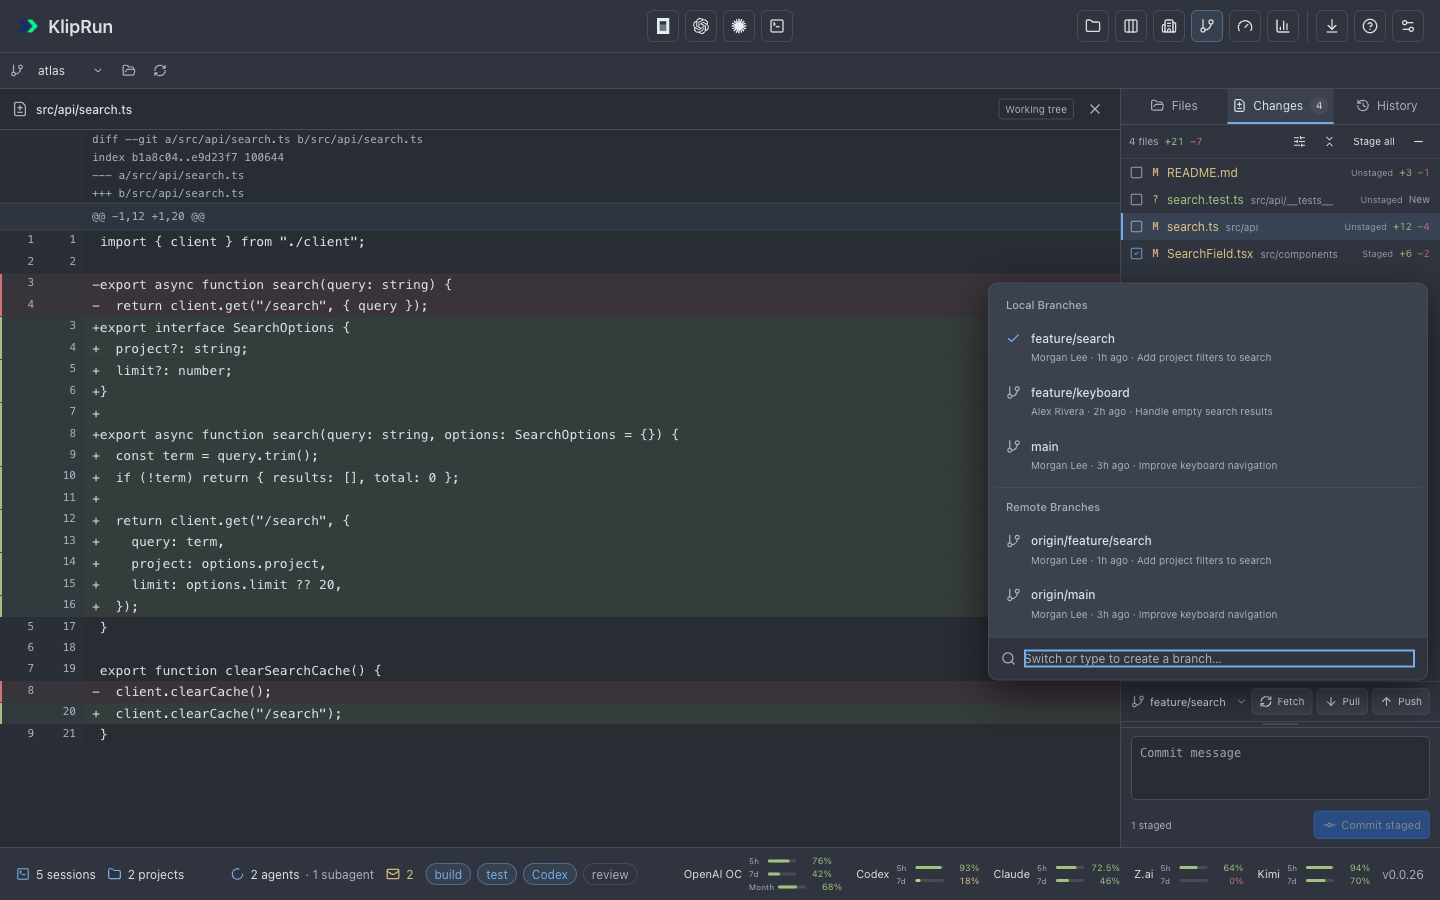
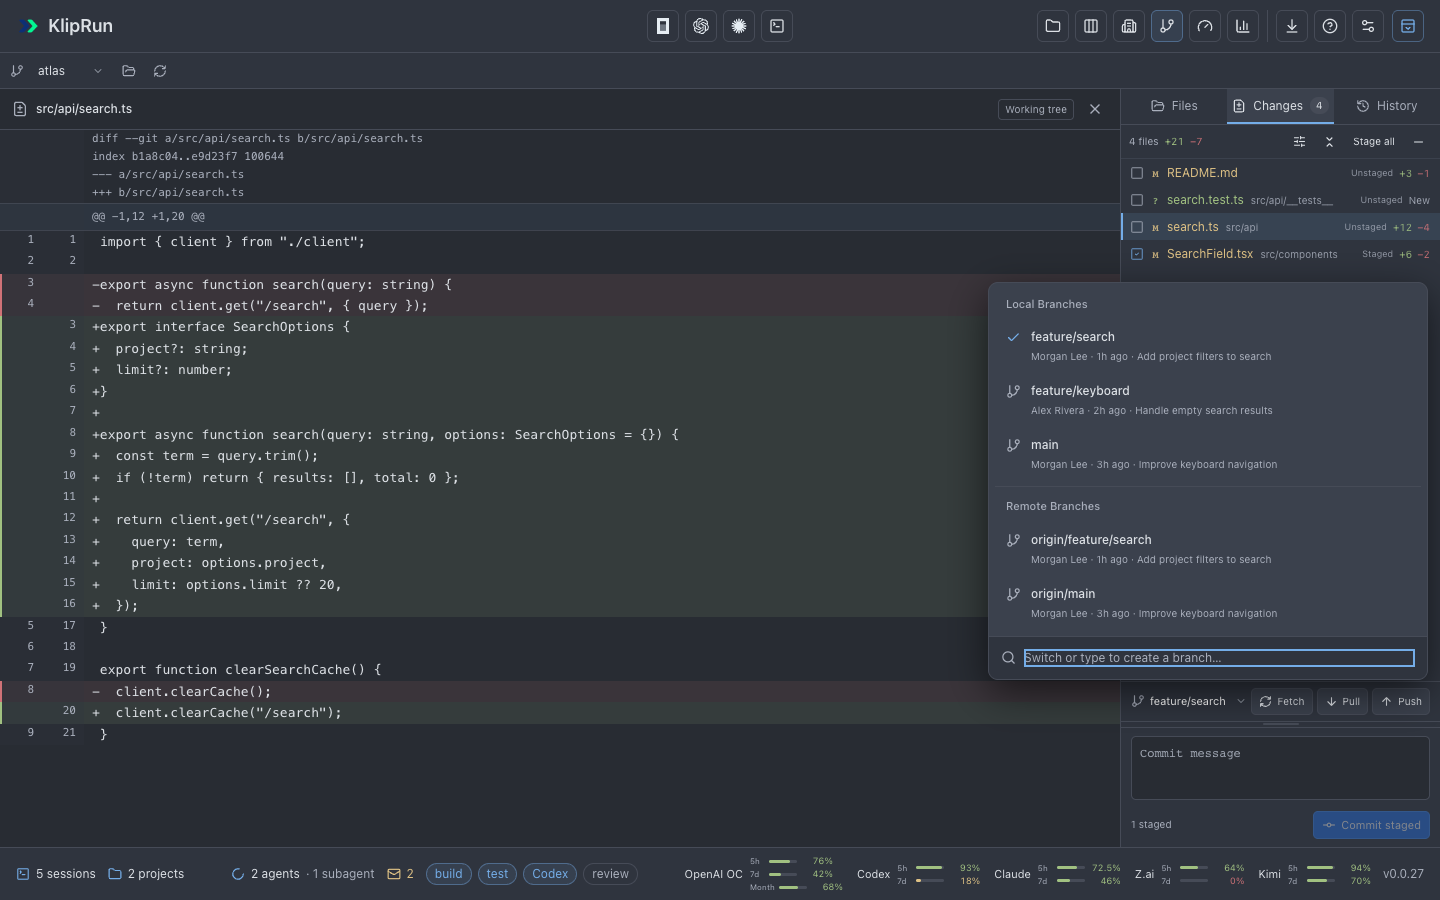
release/0.0.27: Подготовить версию и обновить все скриншоты

diff --git a/docs/screenshots/capture-files.js b/docs/screenshots/capture-files.js
@@ -3,13 +3,11 @@ async (page, directory = "docs/screenshots", fixture, base = "http://127.0.0.1:1
   const root = fixture.git.status.root;
   const external = [];
   const watch = request => { if (!request.url().startsWith(`${base}/`)) external.push(request.url()); };
-  const list = route => route.fulfill({ json: { root, files: Object.keys(fixture.git.text_files), truncated: false } });
   const read = route => {
     const path = decodeURIComponent(route.request().url().match(/[?&]path=([^&]*)/)[1].replace(/\+/g, " "));
     return route.fulfill({ json: { root, path, content: fixture.git.text_files[path], revision: "fixture" } });
   };
   page.on("request", watch);
-  await page.route(`${base}/api/git/files?*`, list);
   await page.route(`${base}/api/git/file?*`, read);
   try {
     await page.setViewportSize({ width: 1440, height: 900 }); await page.goto(`${base}/git`);
@@ -18,10 +16,14 @@ async (page, directory = "docs/screenshots", fixture, base = "http://127.0.0.1:1
     await page.getByRole("option").filter({ hasText: root }).click();
     await page.getByRole("tab", { name: "Files", exact: true }).click();
     for (const path of ["README.md", "queries/projects.sql"]) await page.getByRole("treeitem", { name: `Open file ${path}`, exact: true }).dblclick();
-    await page.getByRole("treeitem", { name: "Open file src/search.py", exact: true }).click();
-    await page.getByRole("textbox", { name: "Edit src/search.py", exact: true }).waitFor();
+    await page.getByRole("textbox", { name: "Filter files", exact: true }).fill("src/api/search.ts");
+    await page.getByRole("treeitem", { name: "Open file src/api/search.ts", exact: true }).click();
+    await page.getByRole("textbox", { name: "Edit src/api/search.ts", exact: true }).waitFor();
+    await page.getByRole("button", { name: "Clear file filter", exact: true }).click();
+    await page.getByRole("button", { name: "Show changes", exact: true }).click();
+    await page.getByRole("region", { name: "Changes at line 2", exact: true }).waitFor();
     await page.screenshot({ path: `${directory}/git-files.png`, animations: "disabled" });
-    await page.getByRole("treeitem", { name: "Open file src/search.py", exact: true }).click({ button: "right" });
+    await page.getByRole("treeitem", { name: "Open file src/api/search.ts", exact: true }).click({ button: "right" });
     await page.getByRole("menu", { name: "File actions", exact: true }).waitFor();
     await page.screenshot({ path: `${directory}/git-file-menu.png`, animations: "disabled" });
     await page.keyboard.press("Escape");
@@ -35,6 +37,6 @@ async (page, directory = "docs/screenshots", fixture, base = "http://127.0.0.1:1
     if (external.length) throw new Error("Capture made external requests");
     return { captures: ["git-files.png", "git-file-menu.png", "git-markdown.png", "git-notebook.png"], externalRequests: 0 };
   } finally {
-    page.off("request", watch); await page.unroute(`${base}/api/git/files?*`, list); await page.unroute(`${base}/api/git/file?*`, read);
+    page.off("request", watch); await page.unroute(`${base}/api/git/file?*`, read);
   }
 }

diff --git a/docs/screenshots/preview.ts b/docs/screenshots/preview.ts
@@ -15,13 +15,24 @@ const clock = `<script>const OriginalDate = Date; window.Date = class extends Or
 const server = Bun.serve({ hostname: "127.0.0.1", port: Number(process.env.KLIPRUN_PREVIEW_PORT ?? 18796), idleTimeout: 0, async fetch(request) {
   const url = new URL(request.url), path = url.pathname;
   if (path === "/__preview/requests") return Response.json(requests);
+  if (path === "/__preview/git-diff-examples") return Response.json(fixture.git.diff_examples);
   if (path.startsWith("/api/")) requests.push(path+url.search);
   if (path === "/api/git/repositories") return Response.json({ repositories: fixture.git.repositories });
   if (path === "/api/git/status") return Response.json({ ...fixture.git.status, root: url.searchParams.get("directory") ?? fixture.git.status.root });
-  if (path === "/api/git/files") return Response.json({ root: url.searchParams.get("directory"), files: Object.keys(fixture.git.text_files), truncated: false });
+  if (path === "/api/git/files") {
+    const prefix = url.searchParams.get("path"), ignored = Object.keys(fixture.git.ignored_files ?? {});
+    const names = [...Object.keys(fixture.git.text_files), ...ignored].filter(name => !prefix || name.startsWith(`${prefix}/`));
+    const files = prefix ? names.filter(name => !name.slice(prefix.length + 1).includes("/")) : names.filter(name => !ignored.includes(name) || !name.includes("/"));
+    const directories = [...new Set(names.filter(name => ignored.includes(name) && name.slice(prefix ? prefix.length + 1 : 0).includes("/")).map(name => `${prefix ? `${prefix}/` : ""}${name.slice(prefix ? prefix.length + 1 : 0).split("/")[0]}`))];
+    return Response.json({ root: url.searchParams.get("directory"), files, directories, ignored: [...files.filter(name => ignored.includes(name)), ...directories], truncated: false });
+  }
+  if (path === "/api/git/file-base") {
+    const name = url.searchParams.get("path") ?? "";
+    return Response.json(Object.hasOwn(fixture.git.ignored_files ?? {}, name) ? { content: null, notice: "Ignored by Git" } : { content: fixture.git.file_baselines?.[name] ?? fixture.git.text_files[name] ?? "" });
+  }
   if (path === "/api/git/file") {
     if (request.method !== "GET") return Response.json({ error: "Fixture preview: files are not modified." }, { status: 409 });
-    const name = url.searchParams.get("path") ?? "", content = fixture.git.text_files[name];
+    const name = url.searchParams.get("path") ?? "", content = fixture.git.text_files[name] ?? fixture.git.ignored_files?.[name];
     return content === undefined ? Response.json({ error: "Unknown demo file." }, { status: 404 })
       : Response.json({ root: url.searchParams.get("directory"), path: name, content, revision: "demo-revision-1" });
   }

diff --git a/docs/screenshots/capture-all.js b/docs/screenshots/capture-all.js
@@ -10,7 +10,7 @@ async (page, directory = "docs/screenshots", base = "http://127.0.0.1:18796") =>
     await page.goto(`${base}${path}`);
     if (!path.startsWith("/__demo/")) {
       await page.locator('[data-testid="version"]').waitFor();
-      if ((await page.locator('[data-testid="version"]').innerText()) !== "v0.0.26") throw new Error("Build the 0.0.26 client before capturing.");
+      if ((await page.locator('[data-testid="version"]').innerText()) !== "v0.0.27") throw new Error("Build the 0.0.27 client before capturing.");
     }
   }
   async function save(name) {

diff --git a/docs/screenshots/README.md b/docs/screenshots/README.md
@@ -1,6 +1,6 @@
 # Demo screenshots
 
-All nineteen current screenshots were captured from **KlipRun Desktop 0.0.26** on **2026-10-19**, using Graphite, the new default. The original palette is now named Midnight. Session IDs, titles, project paths, models, priority flags, Git metadata, quotas, and usage totals come only from [`mock-api.json`](mock-api.json). The preview fixes the clock to the fixture’s `board.generated_at` (2026-10-14), supplies a stub desktop bridge, and disables Office motion. No live engine, user session store, credentials, quota API, or agent process is used.
+All nineteen current screenshots were captured from **KlipRun Desktop 0.0.27** on **2026-10-19**, using Graphite, the new default. The original palette is now named Midnight. Session IDs, titles, project paths, models, priority flags, Git metadata, quotas, and usage totals come only from [`mock-api.json`](mock-api.json). The preview fixes the clock to the fixture’s `board.generated_at` (2026-10-14), supplies a stub desktop bridge, and disables Office motion. No live engine, user session store, credentials, quota API, or agent process is used.
 
 | File | Size | Example shown |
 | --- | --- | --- |
@@ -13,7 +13,7 @@ All nineteen current screenshots were captured from **KlipRun Desktop 0.0.26** o
 | [`statistics.png`](statistics.png) | 1600 × 1600 | Last 30 days, latest sessions, Daily token activity, and composition in UTC |
 | [`statistics-weekly.png`](statistics-weekly.png) | 1600 × 1600 | Weekly token activity for the same fictional dataset |
 | [`usage.png`](usage.png) | 1600 × 1600 | Recorded token summary, provider capacity and reset windows, token activity/composition, and leading models/projects |
-| [`git-files.png`](git-files.png) | 1440 × 900 | Repository tree on the right, preview/permanent file tabs and highlighted Python source |
+| [`git-files.png`](git-files.png) | 1440 × 900 | Repository tree on the right, preview/permanent file tabs, muted ignored entries and inline TypeScript Git changes |
 | [`git-file-menu.png`](git-file-menu.png) | 1440 × 900 | File context menu with rename, path copying, Finder, default app and ignore actions |
 | [`git-markdown.png`](git-markdown.png) | 1440 × 900 | Rendered Markdown with source/preview toggle and per-file editor status |
 | [`git-notebook.png`](git-notebook.png) | 1440 × 900 | Jupyter Markdown/code cells with saved tables, text, and an embedded image |
@@ -25,6 +25,15 @@ All nineteen current screenshots were captured from **KlipRun Desktop 0.0.26** o
 | [`shortcuts.png`](shortcuts.png) | 1600 × 1000 | Current in-app keyboard shortcut dialog |
 
 The fixture API covers `/api/board`, `/api/session/:id`, `/api/recent-sessions`, `/api/stats`, `/api/stats/sessions`, `/api/stats/session/:id`, `/api/stats/office-usage`, and `/api/quota/:provider`. Statistics uses `statistics_dataset`, a fictional 60-day event and observation history, through the production aggregators. The `card_priorities` map supplies only fictional session IDs. The selected details session is `ses_demo_search`, matching the fixture’s `details` payload.
+
+The Files preview also serves fictional HEAD baselines and ignored entries from
+`git.file_baselines` and `git.ignored_files`, with lazy `/api/git/files?path=…`
+responses. [`../../scripts/git-files-review.test.js`](../../scripts/git-files-review.test.js)
+checks gutter and inline word changes, keyboard expansion, undo/redo and saves,
+HEAD and clean-file refresh, unsaved draft preservation, safe baseline text,
+ignored folders and visibility persistence, and narrow/light/dark
+layouts. Saves are intercepted in memory and Git writes are blocked. Review
+screenshots go to `/private/tmp`; the committed Files screenshots also show the current review controls and ignored entries.
 
 Usage now also reads the existing statistics endpoints against that same fixture. [`../../scripts/usage-overview.test.js`](../../scripts/usage-overview.test.js) verifies history periods and source filters, composition-to-trend controls, model drilldowns, task details, seven viewport widths, a 420 px pane inside a wide viewport, the light theme, and error recovery. Its default fixture preview port is 18826. Provider balances remain separate from local token counts; cached/reset-pending providers and unavailable/empty history are checked without live credentials or session stores. All nineteen images were refreshed for this release, including the redesigned Usage page.
 
@@ -62,8 +71,10 @@ Klopik skin thumbnails in `engine/src/client/public/klopik-skins/` are generated
 
 [`../../scripts/git-review-layout.test.js`](../../scripts/git-review-layout.test.js) checks the compact repository toolbar, staging controls before filenames, loaded-commit search, keyboard navigation, automatic first-file diffs, persistent close, and small layouts using fixture data without Git writes.
 
-[`capture-files.js`](capture-files.js) takes `(page, outputDirectory, fixture, base)` and captures Files, its context menu, Markdown, and Jupyter Notebook from `git.text_files` in `mock-api.json`, with all file reads intercepted and no writes. All nineteen current images were refreshed for 0.0.26.
+[`capture-files.js`](capture-files.js) takes `(page, outputDirectory, fixture, base)` and captures Files, its context menu, Markdown, and Jupyter Notebook from `git.text_files` in `mock-api.json`, with all file reads intercepted and no writes. All nineteen current images were refreshed for 0.0.27.
 
 The shortcut image includes the native File/Edit/View/Navigate/Terminal commands. `scripts/native-menus.test.js` verifies the real web command bridge using fixture files and in-memory saves, including CodeMirror history, native-menu capability updates, unsaved-state reporting, close/cancel and draft-preserving refresh. Native focus/routing and standard menu shortcuts are checked separately with Swift tests and a disposable menu probe.
 
-The 0.0.26 refresh preserves the README and gallery ordering and includes the redesigned Usage overview with token history and provider capacity. Git workspace persistence is checked separately with the fixture-based state tests; native Agents settings and the terminal switcher are covered by Swift integration tests with disposable defaults and shells. HTML preview and status-popup checks use only fixture data through `scripts/html-preview.test.js` and `scripts/workspace-controls.test.js`; commit/history resizing is covered by `scripts/git-height-resize.test.js`.
+The 0.0.27 refresh preserves the README and gallery ordering and includes the redesigned Usage overview with token history and provider capacity. Git workspace persistence is checked separately with the fixture-based state tests; native Agents settings and the terminal switcher are covered by Swift integration tests with disposable defaults and shells. HTML preview and status-popup checks use only fixture data through `scripts/html-preview.test.js` and `scripts/workspace-controls.test.js`; commit/history resizing is covered by `scripts/git-height-resize.test.js`.
+
+The 0.0.27 refresh includes neutral Kanban card outlines, brighter Sessions status dots, Office without the redundant Back to board button, and Git Files with HEAD/current review blocks and muted ignored entries. The toolbar remains compact in the gallery; its persisted expanded variant is covered by `scripts/toolbar-labels.test.js` in normal and small layouts. All captures made zero external requests.

diff --git a/README.md b/README.md
@@ -9,6 +9,13 @@ A macOS app for OpenCode, Codex, and Claude Code sessions: a Kanban board, embed
 ![Kanban with the embedded terminal on the left and session details on the right](docs/screenshots/desktop-terminal.png)
 
 Show or hide the embedded terminal with **⌘J**; click a session card to open its details.
+Kanban cards use neutral outlines; column headings and card icons show their status.
+
+Click **Show labels** at the right edge of the top toolbar to expand it: agent
+and utility buttons show their names on the first row, and workspace views move
+to a second row. **Hide labels** returns to compact icons. The app remembers the
+choice across refreshes and restarts; new installations start compact. In Office,
+use **Kanban** in this toolbar to return to the board.
 
 ![Office](docs/screenshots/office.png)
 
@@ -26,7 +33,7 @@ Show or hide the embedded terminal with **⌘J**; click a session card to open i
 
 Requires **Apple Silicon and macOS 13+**.
 
-1. Download `KlipRun-0.0.26-macos-arm64.zip` from the [latest release](https://github.com/klipbn/kliprun_desktop/releases/latest).
+1. Download `KlipRun-0.0.27-macos-arm64.zip` from the [latest release](https://github.com/klipbn/kliprun_desktop/releases/latest).
 2. Unzip and move `KlipRun.app` to **Applications**. Quit KlipRun before replacing an older version.
 3. Open the app. If macOS blocks it, use **System Settings → Privacy & Security → Open Anyway**. The build is locally signed and not notarized.
 
@@ -37,6 +44,8 @@ The Claude Code button is immediately to the right of Codex; **⌘⇧A** opens a
 In **Sessions**, drag the divider beside All sessions, Favorites, and Projects to resize the sidebar; its width is saved. Hover or focus the running/unread counters or an agent badge in the bottom bar to open a session list, then click a session to view its details. Terminal tabs offer **Rename…**, **Pin / Unpin**, and **Close** on right-click. Pinned tabs collapse to squares with the full title on hover and stay on the left in pin order; the active tab has a thin accent line above it. Closing a running tab ends its process after confirmation.
 
 Click the terminal icon at the far left of the terminal tab bar to open a scrollable list of all open terminal tabs. Each row shows its number, title, project folder, running indicator, and pin state; a checkmark identifies the active tab. Numbers follow the current tab order, including pinned and reordered tabs. The first nine show their **⌘1–9** shortcuts; later tabs remain available by clicking. Choosing a row switches to that terminal and its linked session and closes the list.
+
+When terminal tabs overflow, scroll over the tab strip with the mouse wheel to move through them without holding Shift. Horizontal trackpad gestures also work.
 
 **Settings → Agents**, between Notifications and Updates, saves Model, CLI path, and Launch arguments separately for OpenCode, Codex, and Claude Code. Changes apply to new and resumed sessions. Empty fields keep automatic launching, including `codex-vk` when available. CLI paths support `~/` and paths with spaces; Choose… selects a binary or wrapper. OpenCode models use `provider/model`; the other agents accept their CLI's model IDs or aliases. Quote argument values containing spaces; environment variables and shell commands are passed as literal text. Invalid quoting appears beside the agent's settings and prevents launching until corrected. Reset restores automatic settings for that agent.
 
@@ -51,6 +60,23 @@ Git remembers each repository's active tab, open file tabs and active file, File
 Long lines wrap in **Git → Changes**, **History**, and the **Files** source editor without inserting line breaks into the saved file.
 
 In **Git → Files**, `.html` and `.htm` open as highlighted source. The eye button switches between code and the rendered current draft, including unsaved edits. Self-contained HTML can use inline CSS, embedded images, and inline JavaScript; external resources and application access are blocked. Previews unload when hidden or closed. The existing 512 KiB editor limit applies. Use **Open in Default App** for larger reports or pages that need neighboring files or network resources.
+
+Files also marks added, modified, and deleted lines beside the line numbers.
+Click a marker to review the committed **HEAD** text and the current draft, with
+changed words highlighted. **Show changes** opens every block; **Escape** or
+**Hide changes** collapses them. Review includes staged, unstaged, and unsaved
+edits and does not stage, revert, or save anything. Baselines refresh after a
+repository refresh or a HEAD change, while preserving the editor's undo history.
+Clean open files also follow disk updates on the repository's regular refresh;
+an unsaved draft is never replaced by an agent's changes.
+Diffs above the 512 KiB limit show a notice; the file editor keeps its existing limits.
+
+Ignored files and folders are visible with muted names. **Hide ignored files**
+and **Show ignored files** control their visibility; the choice is saved per
+repository. Ignored folders load one level at a time when expanded. Regular
+ignored text files can be opened and saved, but do not receive Git change marks.
+The existing checks for symlinks, Git metadata, nested repositories, and concurrent
+file edits still apply.
 
 ## Build
 

diff --git a/CHANGELOG.md b/CHANGELOG.md
@@ -4,6 +4,25 @@ Notable changes to KlipRun Desktop are recorded here. Versions use [Semantic Ver
 
 ## [Unreleased]
 
+## [0.0.27] - 2026-10-19
+
+### Added
+
+- Show Git changes directly in Files with added/modified/deleted gutter marks, expandable HEAD/current blocks, word highlighting, line counts, and Show/Hide changes. Include unsaved edits and refresh the baseline after HEAD changes without replacing the draft or undo history.
+- Refresh clean open files when the repository updates so agent edits appear without reopening the tab; preserve unsaved drafts and reject stale reads for edited, saving, or replaced tabs.
+- Show ignored files and folders with muted names, a persistent Show/Hide ignored files control, and lazy folder loading. Allow ignored text files to open and save with the existing repository, revision, encoding, and size checks.
+- Add a Show labels / Hide labels button to the top toolbar. Expanded mode names the agent and utility buttons and puts workspace navigation on a second row. Keep compact icons as the default and save the choice across refreshes and application restarts.
+
+### Changed
+
+- Remove the status-colored left strip and its attention pulse from Kanban cards; use a neutral outline in every column.
+- Make green Running status dots brighter in Sessions, with a contrasting green for light themes.
+- Remove the redundant Back to board button from Office; use Kanban in the main toolbar to return to the board.
+
+### Fixed
+
+- Scroll overflowing terminal tabs horizontally with the mouse wheel without holding Shift. Preserve horizontal trackpad gestures, tab actions, automatic selection reveal, and terminal-content scrolling.
+
 ## [0.0.26] - 2026-10-19
 
 ### Added
@@ -437,4 +456,7 @@ First public macOS release.
 [0.0.17]: https://github.com/klipbn/kliprun_desktop/releases/tag/v0.0.17
 [0.0.18]: https://github.com/klipbn/kliprun_desktop/releases/tag/v0.0.18
 [0.0.24]: https://github.com/klipbn/kliprun_desktop/releases/tag/v0.0.24
-[Unreleased]: https://github.com/klipbn/kliprun_desktop/compare/v0.0.24...main
+[0.0.25]: https://github.com/klipbn/kliprun_desktop/releases/tag/v0.0.25
+[0.0.26]: https://github.com/klipbn/kliprun_desktop/releases/tag/v0.0.26
+[0.0.27]: https://github.com/klipbn/kliprun_desktop/releases/tag/v0.0.27
+[Unreleased]: https://github.com/klipbn/kliprun_desktop/compare/v0.0.27...main
